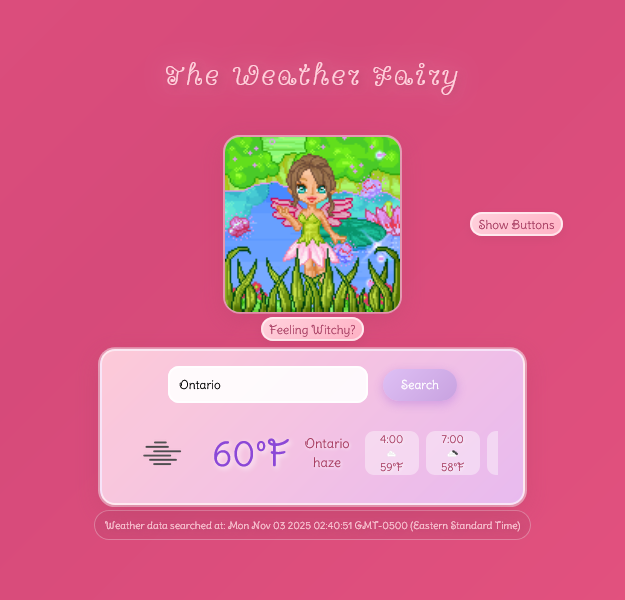
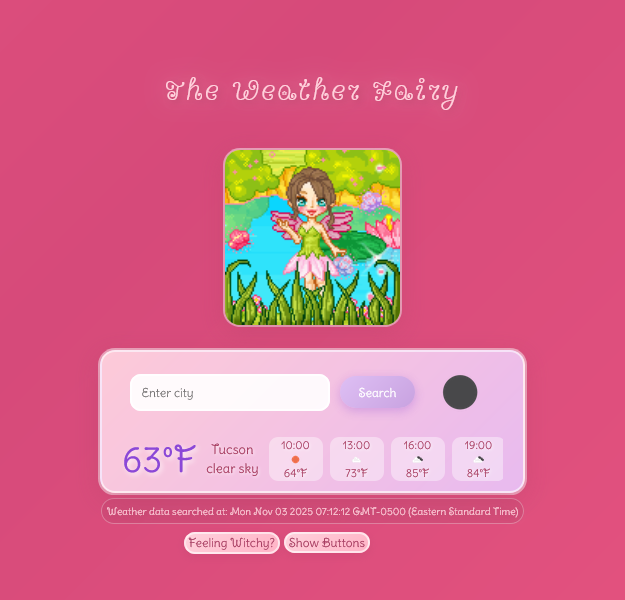
fiddled with the buttons some more

diff --git a/witchy.html b/witchy.html
@@ -24,7 +24,6 @@
           <button type="button" id="lastdress" class="btn btn-prev" onclick="previousDress()">Last Dress</button>
           <button type="button" id="lastpet" class="btn btn-prev" onclick="previousPet()">Last Pet</button>
           <button type="button" id="lastaccent" class="btn btn-prev" onclick="previousAccent()">Last Accent</button>
-          <button type="button" id="reset" class="btn" onclick="resetPage()">Reset Page</button>
           </div>
           <div class="btn-column-next">
           <button type="button" id="nextbckgnd" class="btn btn-nxt" onclick="nextBckgnd()">Next Background</button>
@@ -33,10 +32,13 @@
           <button type="button" id="nextdress" class="btn btn-nxt" onclick="nextDress()">Next Dress</button>
           <button type="button" id="nextpet" class="btn btn-nxt" onclick="nextPet()">Next Pet</button>
           <button type="button" id="nextaccent" class="btn btn-nxt" onclick="nextAccent()">Next Accent</button>
-          <button type="button" id="hide" class="hidebtn" onclick="hideButtons()">Hide Buttons</button>
           </div>
         </div>
-        <a id="page-switch" href="index.html">Seeking the Fae?</a>
+        <div class="toolbtns">
+          <button type="button" id="reset" class="btn" onclick="resetPage()">Reset Page</button>
+          <a id="page-switch" href="index.html">Seeking the Fae?</a>
+          <button type="button" id="hide" class="hidebtn" onclick="hideButtons()">Hide Buttons</button>
+        </div>
       </div>
     <div id="weather-container">
       <input type="text" id="city" placeholder="Enter city" />

diff --git a/css/fairy-weather.css b/css/fairy-weather.css
@@ -16,7 +16,7 @@
   display: flex;
   align-items: center;
   justify-content: center;
-  gap: 15px;
+  gap: 10px;
   flex-wrap: wrap;
   box-sizing: border-box;
 }
@@ -138,7 +138,6 @@ input:focus {
 
 #timestamp {
   font-family: "DeliusSwashCaps";
-  font-style: normal;
   font-weight: 400;
   color: #ffd1dc;
   line-height: 20px;
@@ -146,7 +145,7 @@ input:focus {
   text-shadow: 2px 2px 4px rgba(169, 64, 100, 0.4);
   background: rgba(169, 64, 100, 0.2);
   padding: 4px 10px;
-  margin-top: 5px;
+  margin-top: 6px;
   border-radius: 15px;
   border: 1px solid rgba(255, 255, 255, 0.3);
   white-space: nowrap;
@@ -154,6 +153,7 @@ input:focus {
 
 @media screen and (max-width: 627px) {
   #weather-container {
+    padding: 5px 20px 10px 20px;
     width: 100%;
     max-width: 425px;
   }
@@ -185,7 +185,7 @@ input:focus {
 
   #timestamp {
     font-size: 10px;
-    padding: 4px 10px;
+    padding: 2px 5px;
     margin-top: 5px;
   }
 }

diff --git a/css/witchy-buttons.css b/css/witchy-buttons.css
@@ -60,12 +60,9 @@
 
 #page-switch {
   text-decoration: none;
-  position: absolute;
-  bottom: -182px;
   font-family: "Lacquer";
   font-style: normal;
   font-weight: 400;
-  cursor: pointer;
   border-radius: 22px;
   border: 2px solid rgba(255, 255, 255, 0.6);
   background: linear-gradient(135deg, #ead1ff 0%, #e3b3ff 100%);
@@ -85,21 +82,32 @@
   background: linear-gradient(135deg, #e3b3ff 0%, #da99ff 100%);
 }
 
+.toolbtns {
+  width: 330px;
+  position: absolute;
+  bottom: -190px;
+}
+
 @media screen and (max-width: 627px) {
   .btn,
   .hidebtn {
     margin: 2px auto;
-    padding: 3px 6px;
-  }
-
-  #page-switch {
-    margin: 2px auto;
-    padding: 3px 6px;
-    bottom: 6px;
+    padding: 1.5px 3px;
   }
 
   .btn-column-prev,
   .btn-column-next {
     gap: 0px;
+  }
+
+  #page-switch {
+    margin: 2px auto;
+    padding: 1.5px 3px;
+    bottom: 6px;
+  }
+
+  .toolbtns {
+    width: 275px;
+    bottom: -205px;
   }
 }

diff --git a/css/witchy-weather.css b/css/witchy-weather.css
@@ -16,7 +16,7 @@
   display: flex;
   align-items: center;
   justify-content: center;
-  gap: 15px;
+  gap: 10px;
   flex-wrap: wrap;
   box-sizing: border-box;
 }
@@ -138,7 +138,6 @@ input:focus {
 
 #timestamp {
   font-family: "Lacquer";
-  font-style: normal;
   font-weight: 400;
   color: #eed1ff;
   line-height: 20px;
@@ -146,7 +145,7 @@ input:focus {
   text-shadow: 2px 2px 4px rgba(131, 64, 169, 0.4);
   background: rgba(136, 64, 169, 0.2);
   padding: 4px 10px;
-  margin-top: 5px;
+  margin-top: 6px;
   border-radius: 15px;
   border: 1px solid rgba(255, 255, 255, 0.3);
   white-space: nowrap;
@@ -154,6 +153,7 @@ input:focus {
 
 @media screen and (max-width: 627px) {
   #weather-container {
+    padding: 5px 20px 10px 20px;
     width: 100%;
     max-width: 425px;
   }
@@ -185,7 +185,7 @@ input:focus {
 
   #timestamp {
     font-size: 10px;
-    padding: 4px 10px;
+    padding: 2px 5px;
     margin-top: 5px;
   }
 }

diff --git a/index.html b/index.html
@@ -38,9 +38,9 @@
           </div>
         </div>
         <div class="toolbtns">
-        <button type="button" id="hide" class="hidebtn" onclick="hideButtons()">Hide Buttons</button>
-        <button type="button" id="reset" class="btn" onclick="resetPage()">Reset Page</button>
-        <a id="page-switch" href="witchy.html">Feeling Witchy?</a>
+          <button type="button" id="reset" class="btn" onclick="resetPage()">Reset Page</button>
+          <a id="page-switch" href="witchy.html">Feeling Witchy?</a>
+          <button type="button" id="hide" class="hidebtn" onclick="hideButtons()">Hide Buttons</button>
         </div>
       </div>
     <div id="weather-container">

diff --git a/css/witchy-style.css b/css/witchy-style.css
@@ -40,14 +40,14 @@ body {
   text-shadow: 3px 3px 6px rgba(145, 64, 169, 0.5),
     0 0 20px rgba(242, 209, 255, 0.4);
   letter-spacing: 2px;
-  margin: 0 0 5px 0;
+  margin: 0 0 15px 0;
   text-align: center;
 }
 
 #container {
   position: relative;
-  height: 350px;
-  width: 500px;
+  height: 280px;
+  width: 515px;
   display: flex;
   align-items: center;
   justify-content: center;
@@ -88,8 +88,8 @@ body {
   }
 
   #container {
-    height: 250px;
-    width: 500px;
+    height: 215px;
+    width: 450px;
   }
 
   #dollarea,

diff --git a/css/fairy-style.css b/css/fairy-style.css
@@ -40,14 +40,14 @@ body {
   text-shadow: 3px 3px 6px rgba(169, 64, 100, 0.5),
     0 0 20px rgba(255, 209, 220, 0.4);
   letter-spacing: 2px;
-  margin: 0 0 5px 0;
+  margin: 0 0 15px 0;
   text-align: center;
 }
 
 #container {
   position: relative;
-  height: 350px;
-  width: 500px;
+  height: 300px;
+  width: 515px;
   display: flex;
   align-items: center;
   justify-content: center;
@@ -89,8 +89,8 @@ body {
   }
 
   #container {
-    height: 250px;
-    width: 500px;
+    height: 225px;
+    width: 450px;
   }
 
   #accent,

diff --git a/css/fairy-buttons.css b/css/fairy-buttons.css
@@ -83,15 +83,16 @@
 }
 
 .toolbtns {
+  width: 315px;
   position: absolute;
-  bottom: -185px;
+  bottom: -190px;
 }
 
 @media screen and (max-width: 627px) {
   .btn,
   .hidebtn {
     margin: 2px auto;
-    padding: 3px 6px;
+    padding: 1.5px 3px;
   }
 
   .btn-column-prev,
@@ -101,11 +102,12 @@
 
   #page-switch {
     margin: 2px auto;
-    padding: 3px 6px;
+    padding: 1.5px 3px;
     bottom: 6px;
   }
 
   .toolbtns {
-    bottom: -225px;
+    width: 258px;
+    bottom: -205px;
   }
 }
